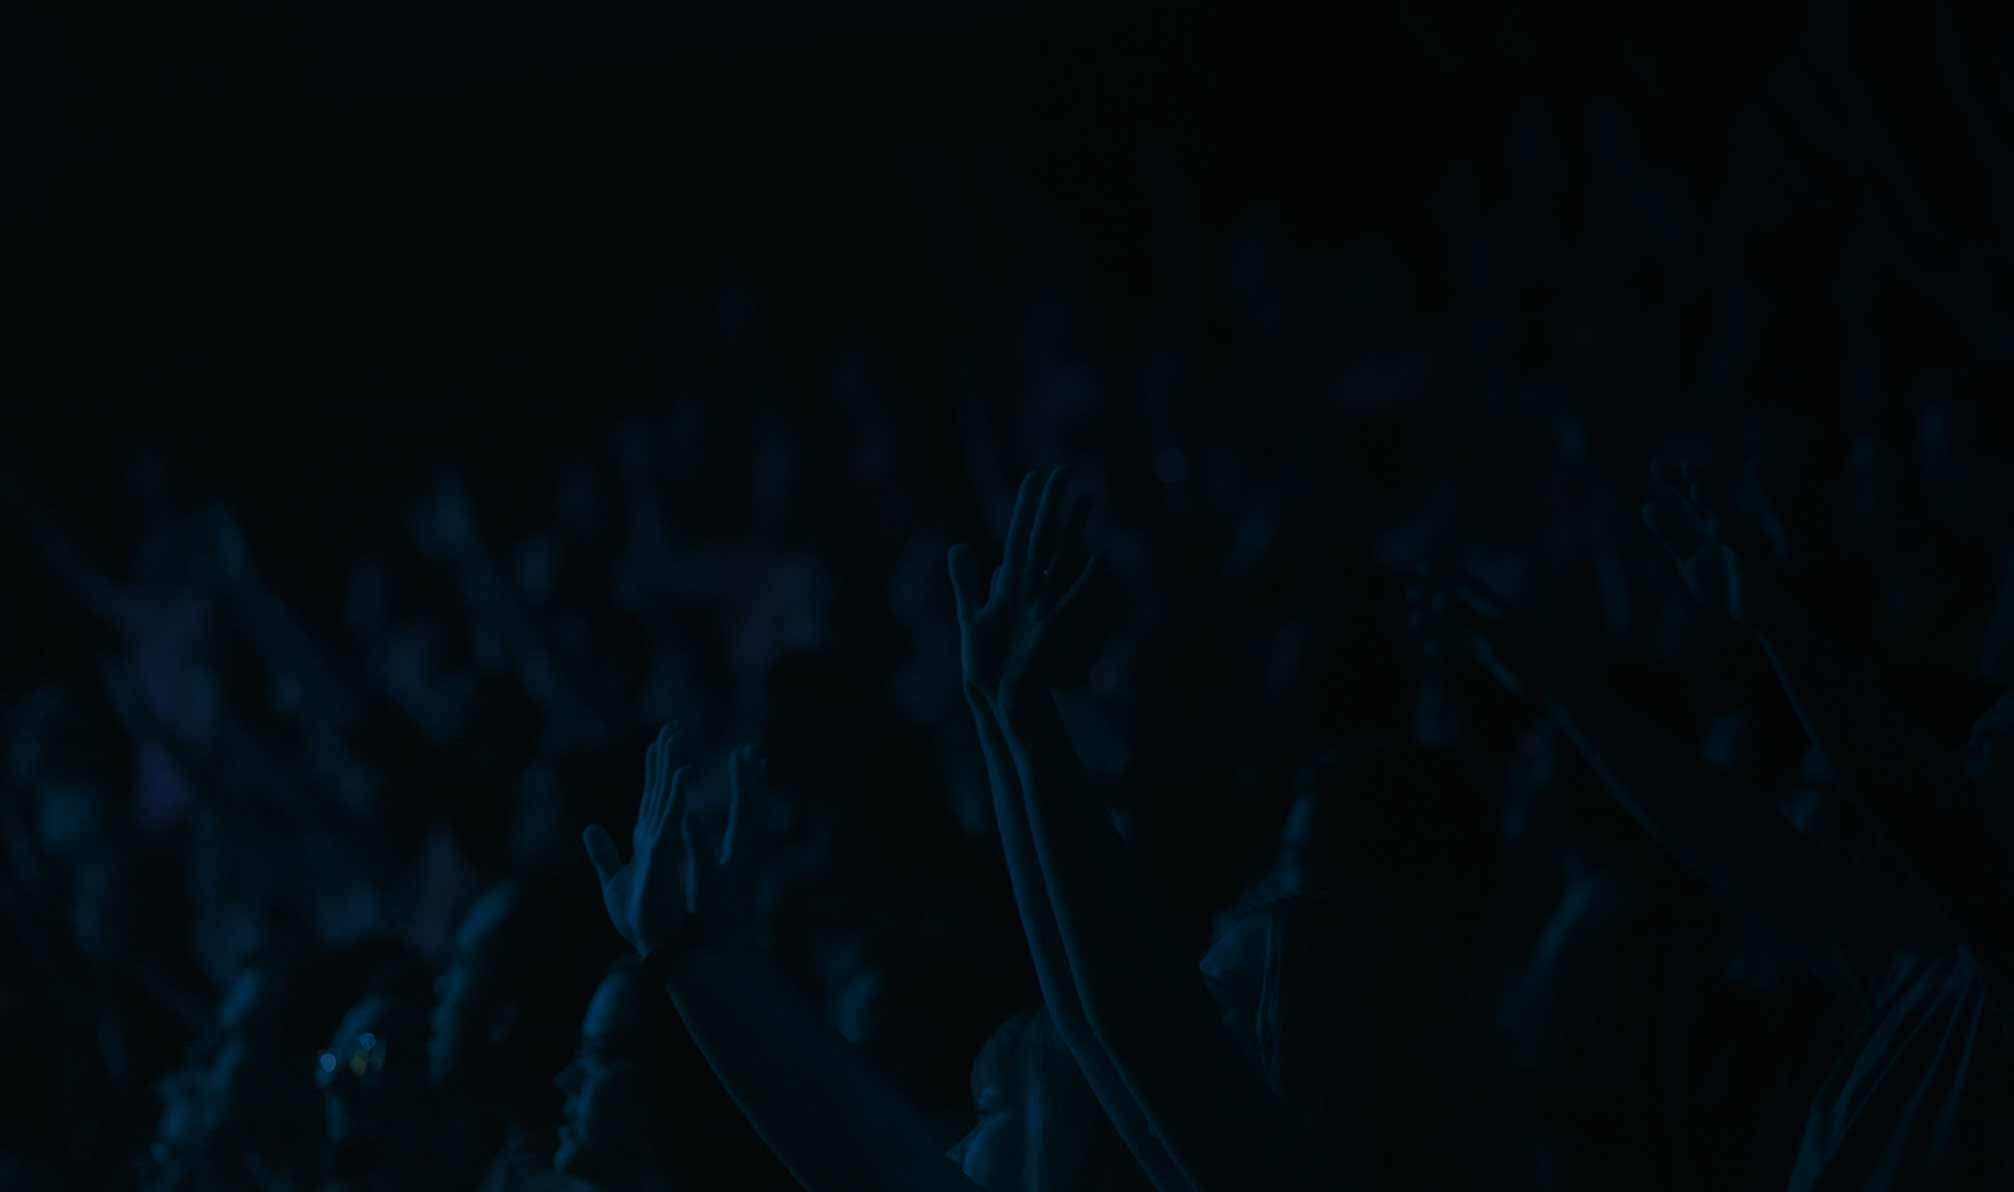
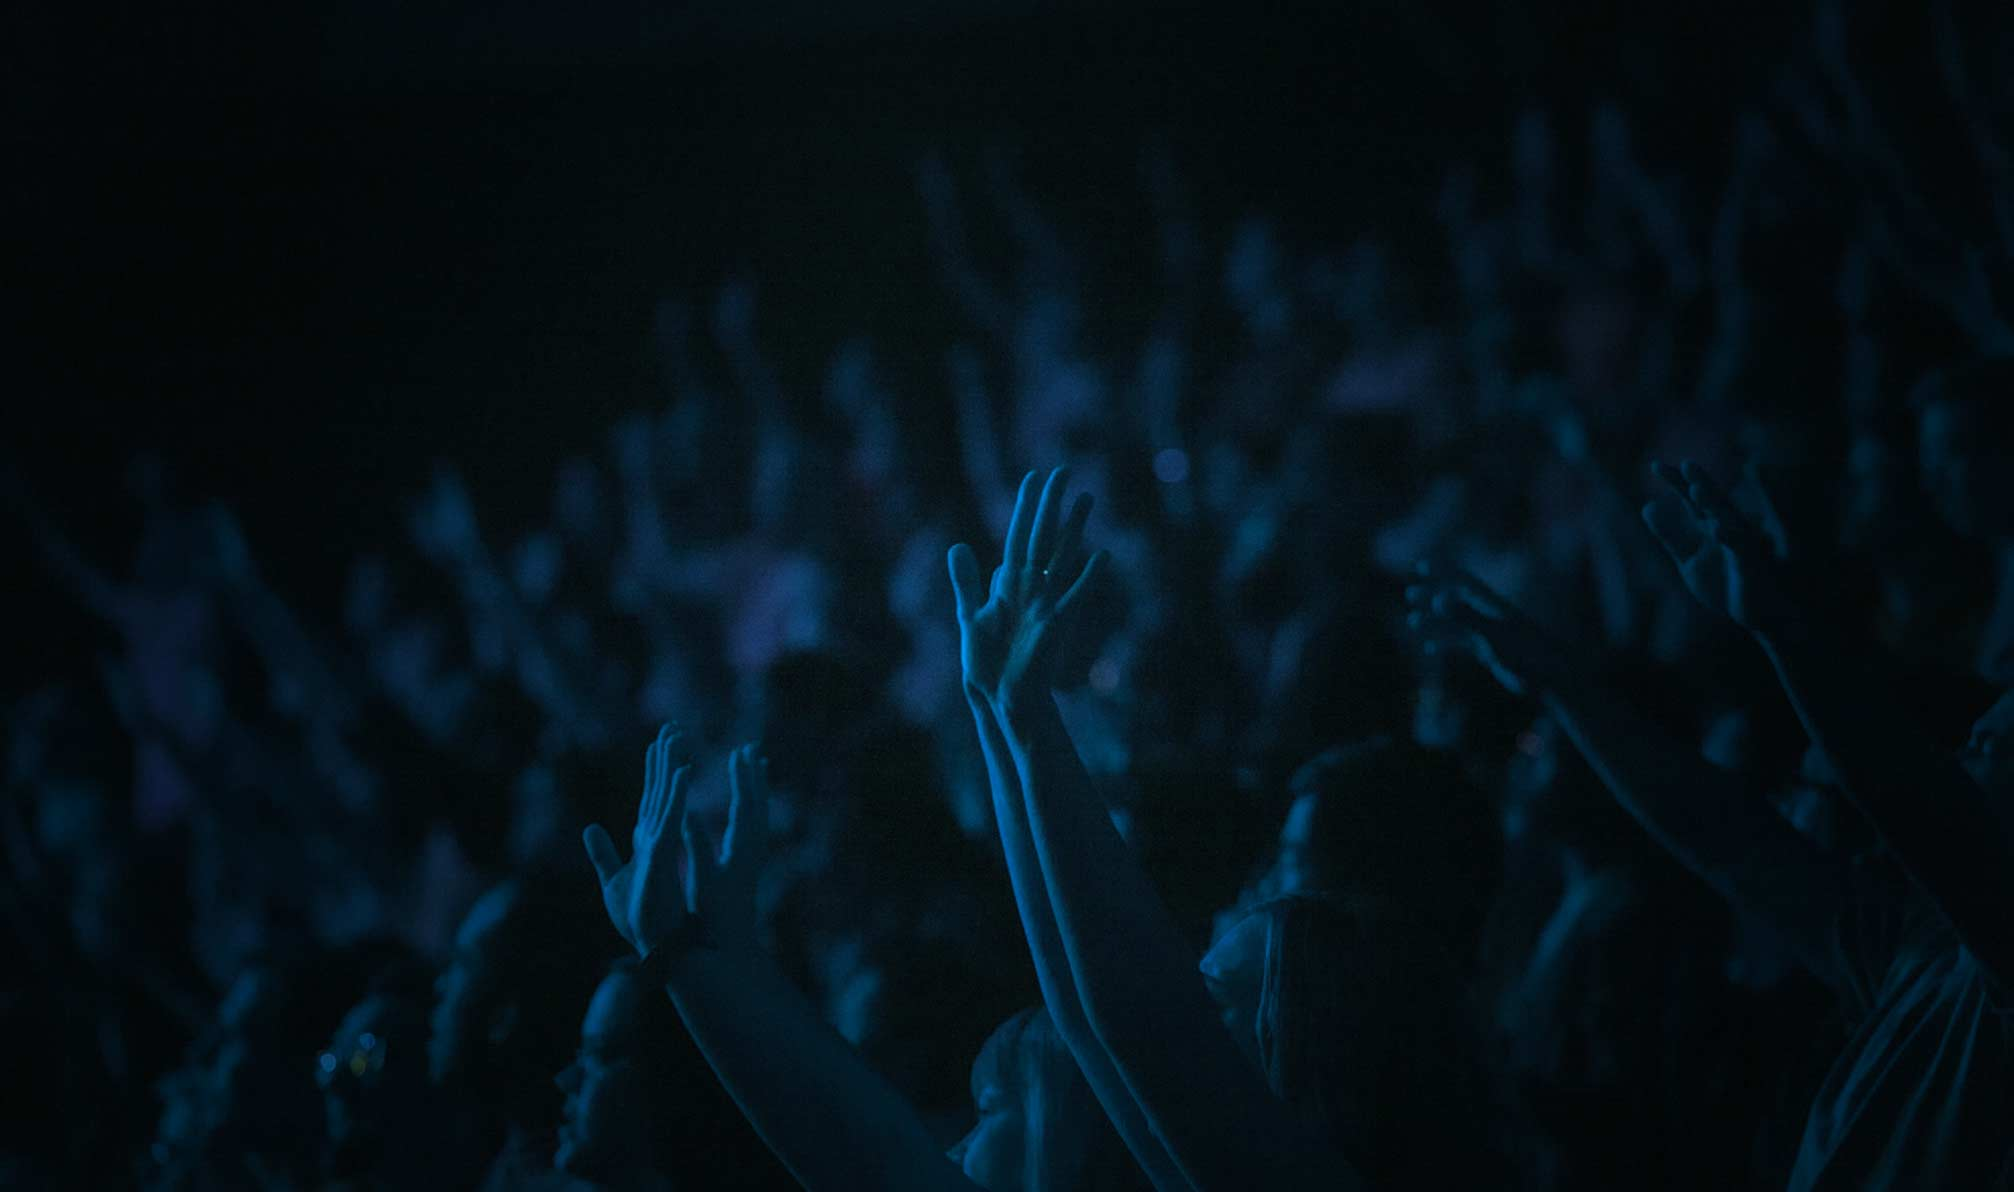
fancy confirm screen

diff --git a/public/workshop/css/app.css b/public/workshop/css/app.css
@@ -90,7 +90,7 @@ body, a {
 }
 
 .store_content {
-  background-color: rgba(4, 48, 78, 0.30);
+  background-color: rgba(71, 59, 180, 0.20);
 }
 
 /* video items */
@@ -103,7 +103,7 @@ body, a {
     display: flex;
     flex-wrap: wrap;
     justify-content: space-around;
-    padding: 32px;
+    padding: 50px 32px;
   }
 }
 

diff --git a/03-radium/solution/components/ShoppingCart.js b/03-radium/solution/components/ShoppingCart.js
@@ -41,6 +41,7 @@ const styles = {
 
     confirmed: {
       height: '350px',
+      backgroundColor: 'rgba(71, 59, 180, 0.20)',
       '@media (min-width: 608px)': {
         height: '350px'
       },

diff --git a/public/workshop/css/shopping-cart.css b/public/workshop/css/shopping-cart.css
@@ -25,6 +25,7 @@
 
 .confirmed.shopping_cart {
   height: 350px;
+  background-color: rgba(71, 59, 180, 0.20);
 }
 
 .cart_title {
